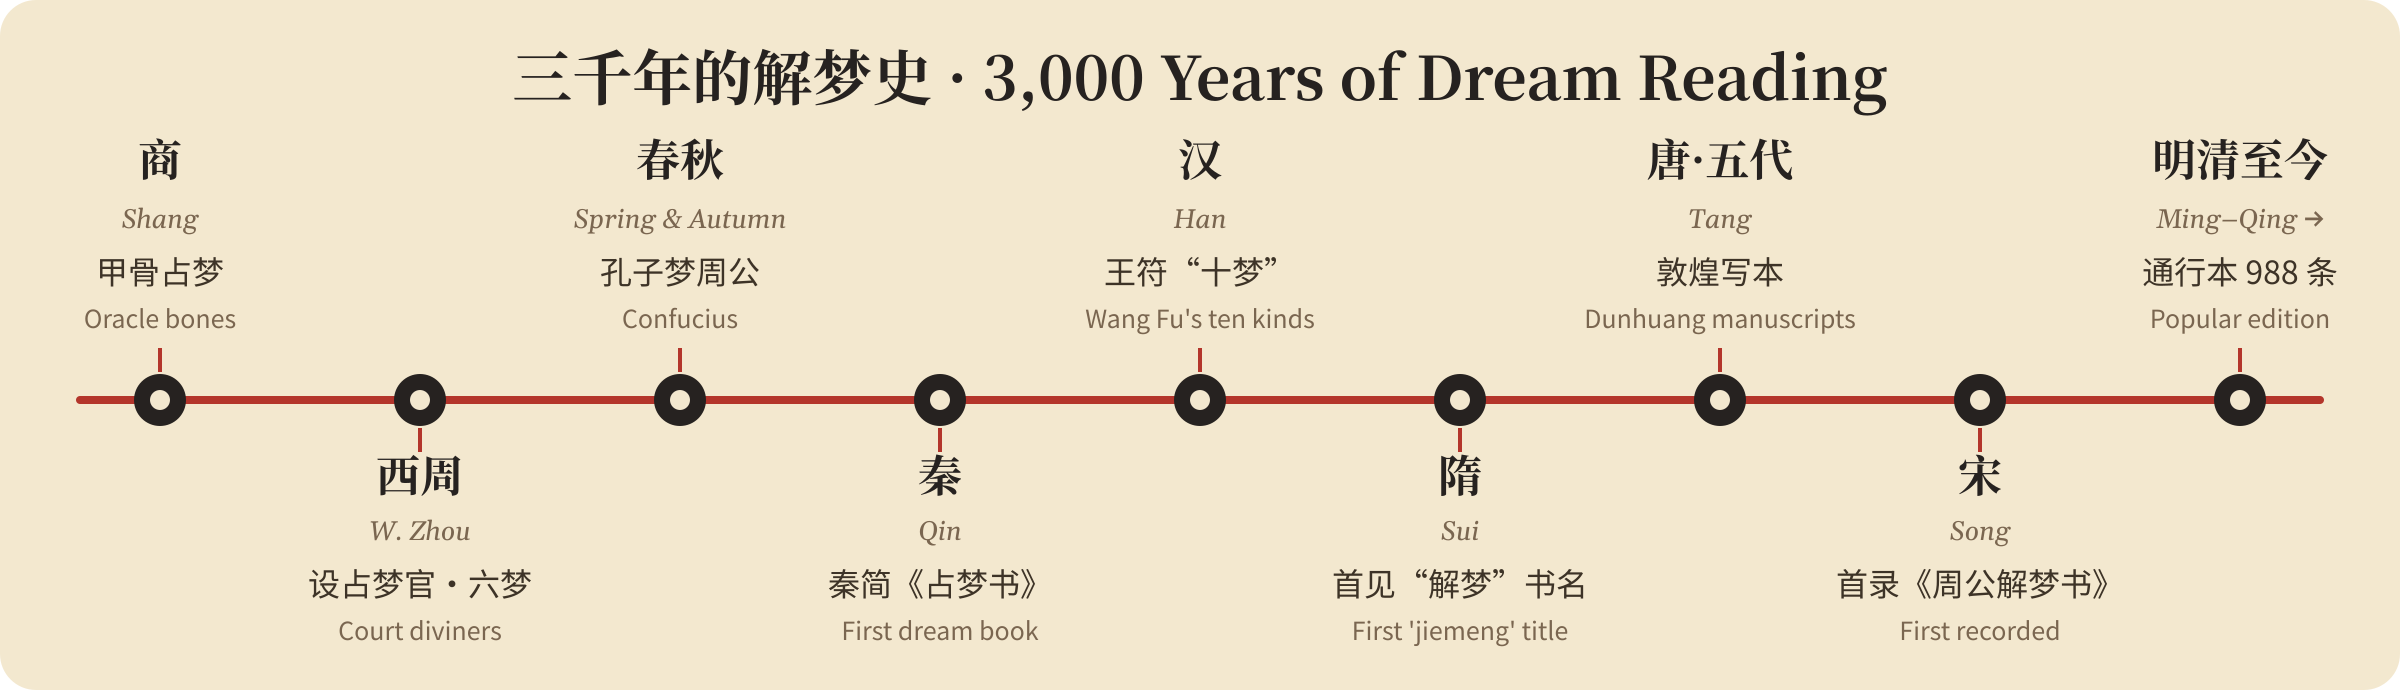
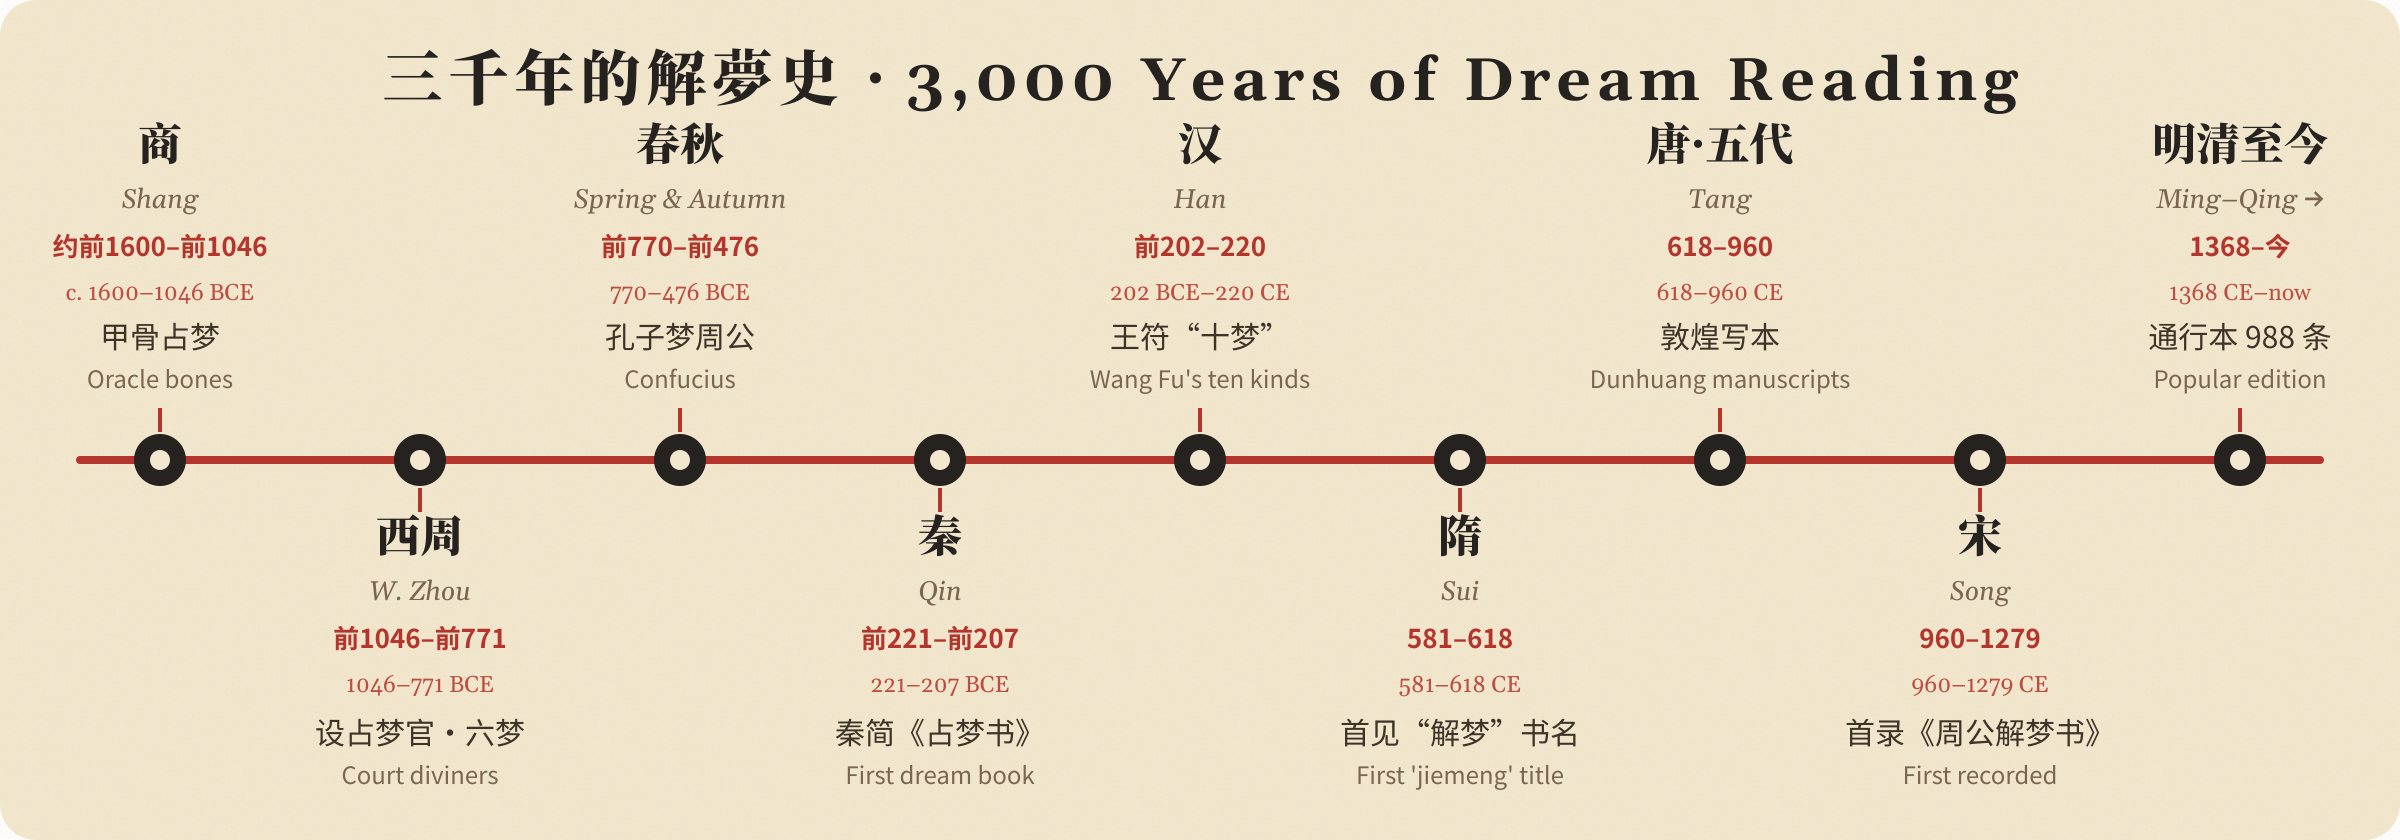
Add date ranges to each era in the history table and timeline
Claude-Session: https://claude.ai/code/session_01FzPP8LPR9x2kgxjToGkc75

diff --git a/README.md b/README.md
@@ -79,15 +79,15 @@ Dream interpretation means "translating" a dream. Since ancient times, Chinese p
 
 | 时代 Era | 发生了什么 What happened |
 |---|---|
-| **商朝**（3000 多年前）· **Shang dynasty** (over 3,000 years ago) | 商人相信梦是和祖先魂灵沟通的桥梁。商王梦见祖先后，会在甲骨上占问吉凶，这是目前能看到的最早的占梦记录。 · The Shang saw dreams as a bridge to ancestral spirits. After dreaming of an ancestor, the king had the dream divined on oracle bones, the earliest dream records we have. |
-| **西周** · **Western Zhou** | 占梦被纳入国家礼制，朝廷设"占梦"官，专管《周礼》所说的"六梦"：正梦、噩梦、思梦、寤梦、喜梦、惧梦。 · Dream divination became part of state ritual. Court officials handled the "six dreams" of the *Rites of Zhou*: ordinary, frightening, longing, waking-thought, joyful and fearful dreams. |
-| **春秋** · **Spring and Autumn period** | 孔子晚年叹"久矣吾不复梦见周公"（《论语》）。周公从此和"梦"连在一起，"周公之梦"成了梦的代称，后世解梦书都托他的名字。 · In old age Confucius sighed that he no longer dreamed of the Duke of Zhou (*Analects*). The Duke became linked with dreams, and later dream books took his name. |
-| **秦** · **Qin dynasty** | 岳麓书院藏秦简里有一部体例完整的《占梦书》，梦象和占语都已固定，说明梦书开始独立成书流传。 · Qin bamboo slips held at the Yuelu Academy include a complete *Book of Dream Divination* with fixed dream images and readings, the first sign of dream books circulating on their own. |
-| **汉** · **Han dynasty** | 《汉书·艺文志》著录了《黄帝长柳占梦》等梦书。东汉王符在《潜夫论·梦列》提出"十梦"，强调同一个梦要看做梦人的心情和处境来解。本技能收录了这篇全文。 · The Han imperial bibliography lists several dream books. Wang Fu's "On Dreams" set out ten kinds of dreams and stressed reading a dream through the dreamer's feelings and situation. Its full text is included here. |
-| **隋** · **Sui dynasty** | 《隋书·经籍志》录有《解梦书》二卷，这是书名里第一次出现"解梦"二字，在此之前都叫"占梦"。 · The Sui bibliography lists a *Book of Dream Interpretation* in two scrolls, the first title to use the word *jiemeng* ("interpreting dreams") instead of *zhanmeng* ("divining dreams"). |
-| **唐、五代** · **Tang & Five Dynasties** | 敦煌出土了《周公解梦书》《新集周公解梦书》《先贤周公解梦书》等多种写本，内容各不相同，都没有署作者名。 · Dunhuang yielded several manuscripts under the Duke of Zhou's name, each with different contents and none naming an author. |
-| **宋** · **Song dynasty** | 《宋史·艺文志》第一次在正史书目里著录"《周公解梦书》三卷"，可惜已经失传。 · The Song official history is the first state bibliography to record a *Duke of Zhou's Book of Dreams* in three scrolls; that edition is now lost. |
-| **明清至今** · **Ming–Qing to today** | 各种版本渐渐统一成今天流传的七言条目本，甚至被刻在石碑上嵌在周公庙大殿外墙。明代陈士元写《梦占逸旨》，把梦分成九类。本技能收录的就是这部通行本，共 27 章、988 条。 · The many versions gradually merged into today's popular edition of seven-character entries, which was even carved in stone on the walls of a Duke of Zhou temple. The Ming scholar Chen Shiyuan's *Mengzhan Yizhi* sorted dreams into nine kinds. This skill contains the full popular edition: 27 chapters, 988 entries. |
+| **商朝** · **Shang dynasty**<br>约前 1600 – 前 1046 年<br>*c. 1600 – 1046 BCE* | 商人相信梦是和祖先魂灵沟通的桥梁。商王梦见祖先后，会在甲骨上占问吉凶，这是目前能看到的最早的占梦记录。 · The Shang saw dreams as a bridge to ancestral spirits. After dreaming of an ancestor, the king had the dream divined on oracle bones, the earliest dream records we have. |
+| **西周** · **Western Zhou**<br>前 1046 – 前 771 年<br>*1046 – 771 BCE* | 占梦被纳入国家礼制，朝廷设"占梦"官，专管《周礼》所说的"六梦"：正梦、噩梦、思梦、寤梦、喜梦、惧梦。 · Dream divination became part of state ritual. Court officials handled the "six dreams" of the *Rites of Zhou*: ordinary, frightening, longing, waking-thought, joyful and fearful dreams. |
+| **春秋** · **Spring and Autumn**<br>前 770 – 前 476 年<br>*770 – 476 BCE*<br>（孔子 前 551 – 前 479 年 · Confucius 551 – 479 BCE） | 孔子晚年叹"久矣吾不复梦见周公"（《论语》）。周公从此和"梦"连在一起，"周公之梦"成了梦的代称，后世解梦书都托他的名字。 · In old age Confucius sighed that he no longer dreamed of the Duke of Zhou (*Analects*). The Duke became linked with dreams, and later dream books took his name. |
+| **秦** · **Qin dynasty**<br>前 221 – 前 207 年<br>*221 – 207 BCE* | 岳麓书院藏秦简里有一部体例完整的《占梦书》，梦象和占语都已固定，说明梦书开始独立成书流传。 · Qin bamboo slips held at the Yuelu Academy include a complete *Book of Dream Divination* with fixed dream images and readings, the first sign of dream books circulating on their own. |
+| **汉** · **Han dynasty**<br>前 202 – 公元 220 年<br>*202 BCE – 220 CE*<br>（东汉 25 – 220 年 · Eastern Han 25 – 220 CE） | 《汉书·艺文志》著录了《黄帝长柳占梦》等梦书。东汉王符在《潜夫论·梦列》提出"十梦"，强调同一个梦要看做梦人的心情和处境来解。本技能收录了这篇全文。 · The Han imperial bibliography lists several dream books. Wang Fu's "On Dreams" set out ten kinds of dreams and stressed reading a dream through the dreamer's feelings and situation. Its full text is included here. |
+| **隋** · **Sui dynasty**<br>581 – 618 年<br>*581 – 618 CE* | 《隋书·经籍志》录有《解梦书》二卷，这是书名里第一次出现"解梦"二字，在此之前都叫"占梦"。 · The Sui bibliography lists a *Book of Dream Interpretation* in two scrolls, the first title to use the word *jiemeng* ("interpreting dreams") instead of *zhanmeng* ("divining dreams"). |
+| **唐、五代** · **Tang & Five Dynasties**<br>618 – 960 年<br>*618 – 960 CE*<br>（唐 618 – 907，五代 907 – 960） | 敦煌出土了《周公解梦书》《新集周公解梦书》《先贤周公解梦书》等多种写本，内容各不相同，都没有署作者名。 · Dunhuang yielded several manuscripts under the Duke of Zhou's name, each with different contents and none naming an author. |
+| **宋** · **Song dynasty**<br>960 – 1279 年<br>*960 – 1279 CE* | 元代编修的《宋史·艺文志》记录宋代藏书时，第一次在正史书目里著录"《周公解梦书》三卷"，可惜已经失传。 · The official *History of Song* (compiled in the Yuan dynasty) is the first state bibliography to record a *Duke of Zhou's Book of Dreams* in three scrolls; that edition is now lost. |
+| **明清至今** · **Ming–Qing to today**<br>1368 年至今<br>*1368 CE – present*<br>（明 1368 – 1644，清 1644 – 1912） | 各种版本渐渐统一成今天流传的七言条目本，甚至被刻在石碑上嵌在周公庙大殿外墙。明代陈士元写《梦占逸旨》，把梦分成九类。本技能收录的就是这部通行本，共 27 章、988 条。 · The many versions gradually merged into today's popular edition of seven-character entries, which was even carved in stone on the walls of a Duke of Zhou temple. The Ming scholar Chen Shiyuan's *Mengzhan Yizhi* sorted dreams into nine kinds. This skill contains the full popular edition: 27 chapters, 988 entries. |
 
 > **谁写的？什么时候写的？** · **Who wrote it, and when?** 学界公认《周公解梦》不是周公本人所写，而是后人汇集民间经验、借他的名字成书。至于具体年代，有学者（如刘文英）认为出自三国东吴，也有人根据史书著录推断是南北朝到隋唐，目前没有定论。
 > Scholars agree the book was not written by the Duke of Zhou himself; it collects folk wisdom under his name. Its date is debated: some, such as Liu Wenying, place it in the Three Kingdoms state of Wu, while others argue for the Northern and Southern dynasties through the Tang. There is no consensus.
